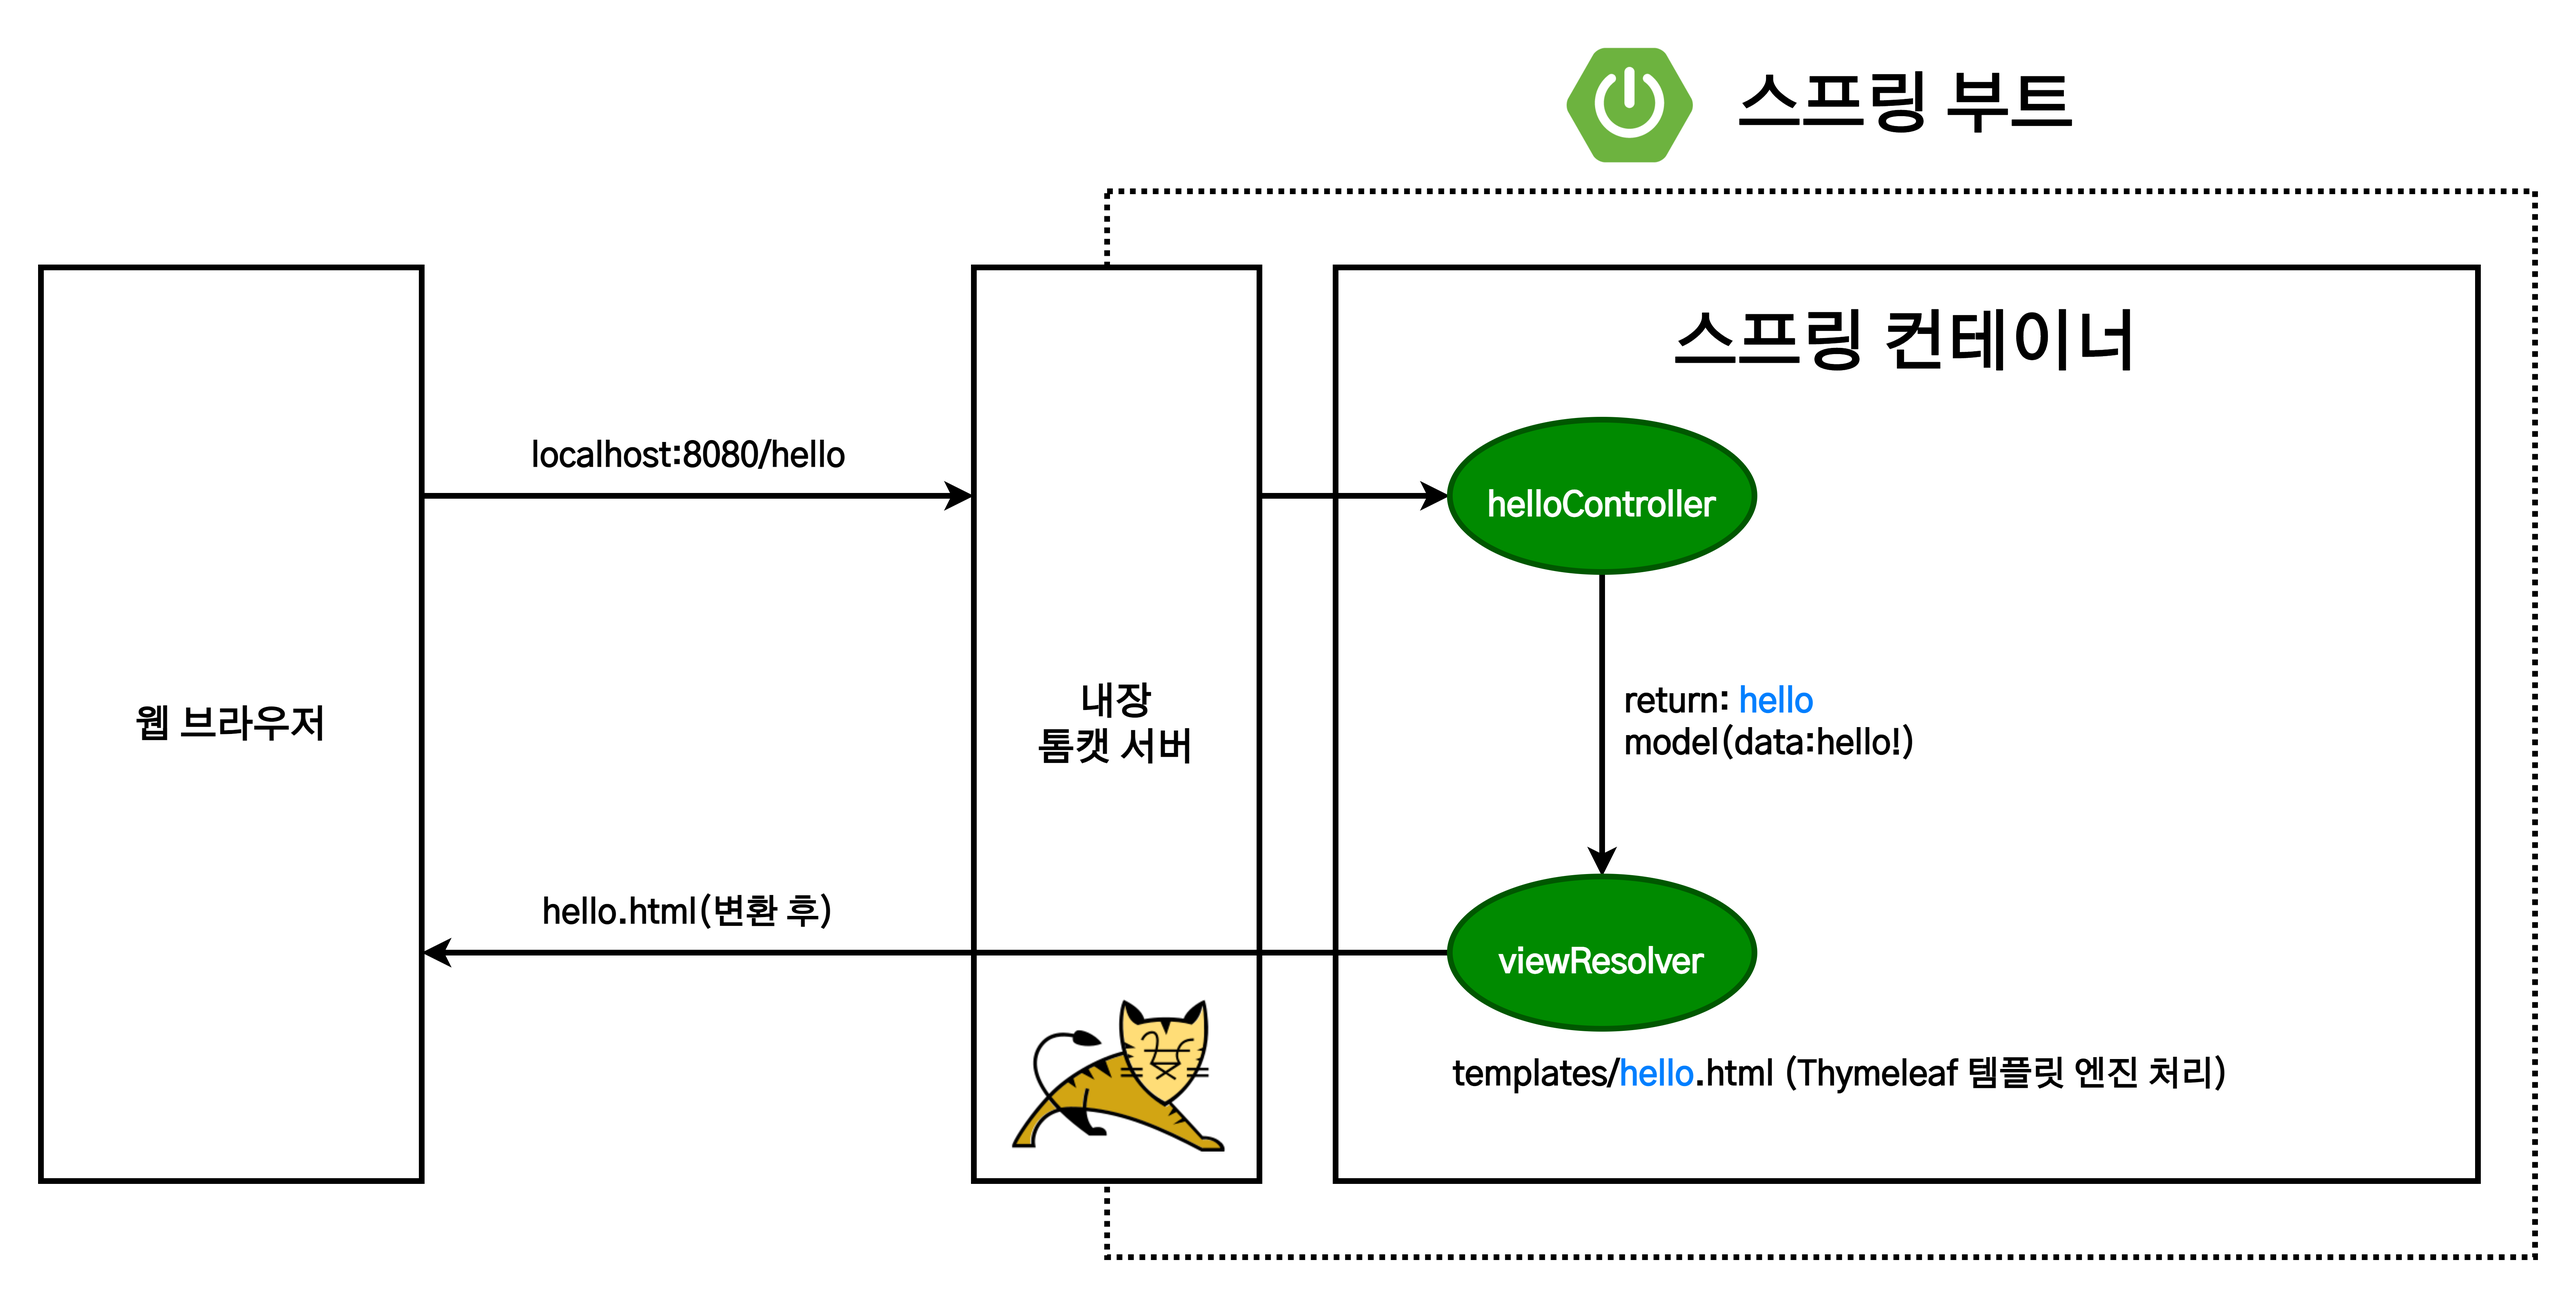
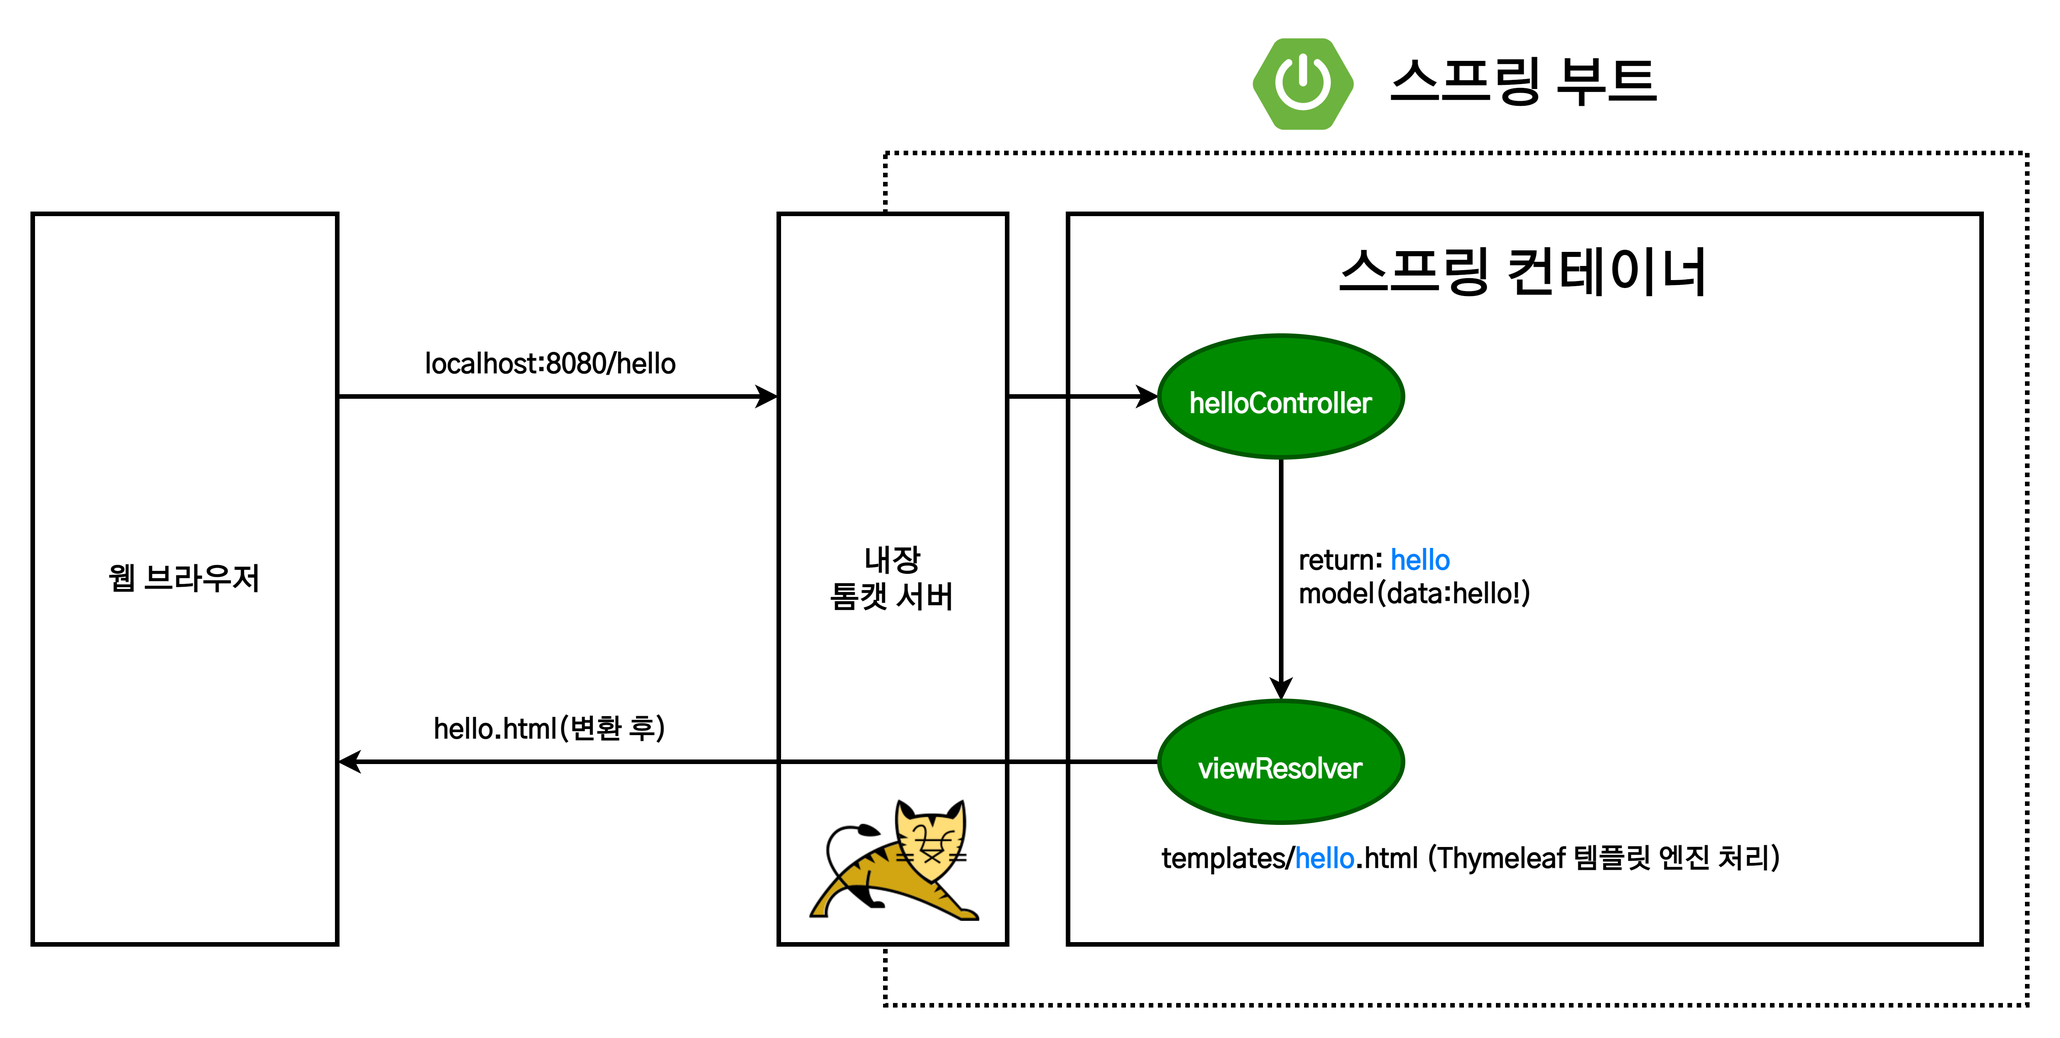
[Update] (Language) '스프링 입문 - 프로젝트 환경설정' 문서 오탈자 수정 및 이미지 변경
- 오탈자 수정.
- 잘못된 설명 정정.
- 이미지 파일 변경.

diff --git a/Language/Java/contents/Spring-introduction-project-setting.md b/Language/Java/contents/Spring-introduction-project-setting.md
@@ -124,7 +124,7 @@ tasks.named('test') {
 ```
 
 - 스프링 부트가 제공하는 Welcome Page 기능
-  - `static/index.html`을 올려두면 Welcome page 기능을 제공한다. [스프링부트 매뉴얼](https://docs.spring.io/spring-boot/docs/2.3.1.RELEASE/reference/html/spring-boot-features.html#boot-features-spring-mvc-welcome-page)
+  - `static/index.html`을 올려두면 Welcome page 기능을 제공한다. [스프링부트 메뉴얼](https://docs.spring.io/spring-boot/docs/2.3.1.RELEASE/reference/html/spring-boot-features.html#boot-features-spring-mvc-welcome-page)
 - thymeleaf 템플릿 엔진
   - 템플릿 엔진은 정적 페이지를 원하는대로 동적으로 구성하도록 도와주는 엔진.
   - 스프링 부트에서는 Thymeleaf 외에도 FreeMarker, Groovy, Mustache 템플릿 엔진들을 지원한다.
@@ -158,7 +158,7 @@ public class HelloController {
 </html>
 ```
 
-thymeleaf 템플릿 엔진의 동작 환경은 아래와 같다.
+스프링 부트의 동작 과정은 아래와 같다.
 
 ![Spring-introduction-project-setting-02](./images/Spring-introduction-project-setting-02.png)
 
